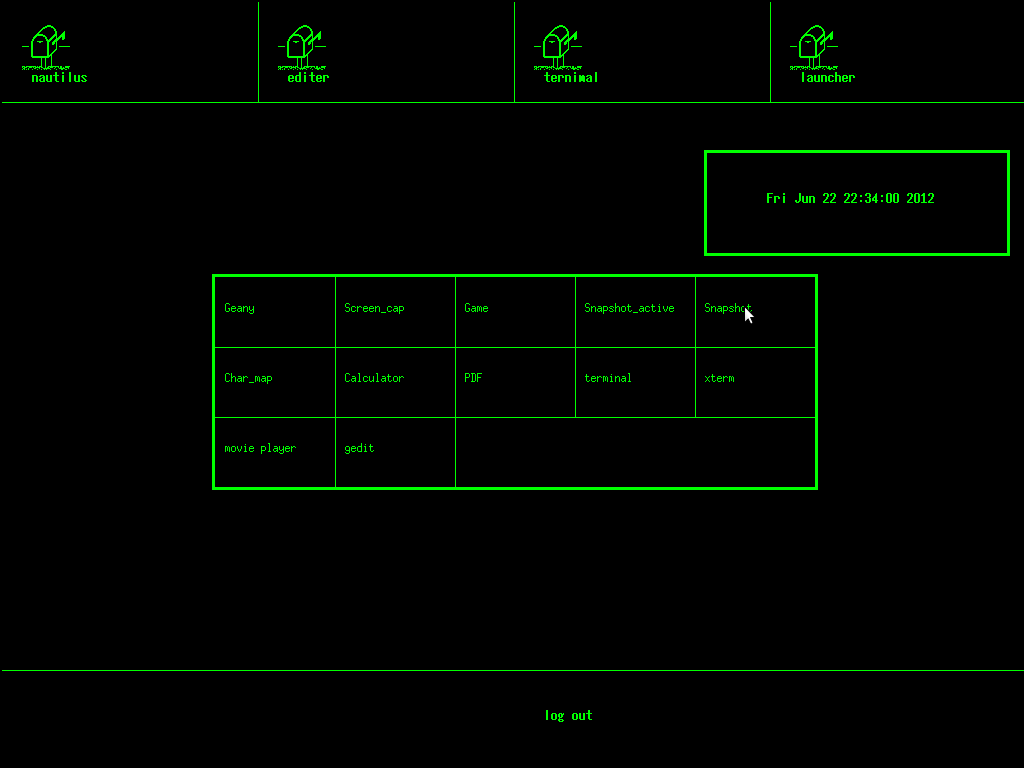
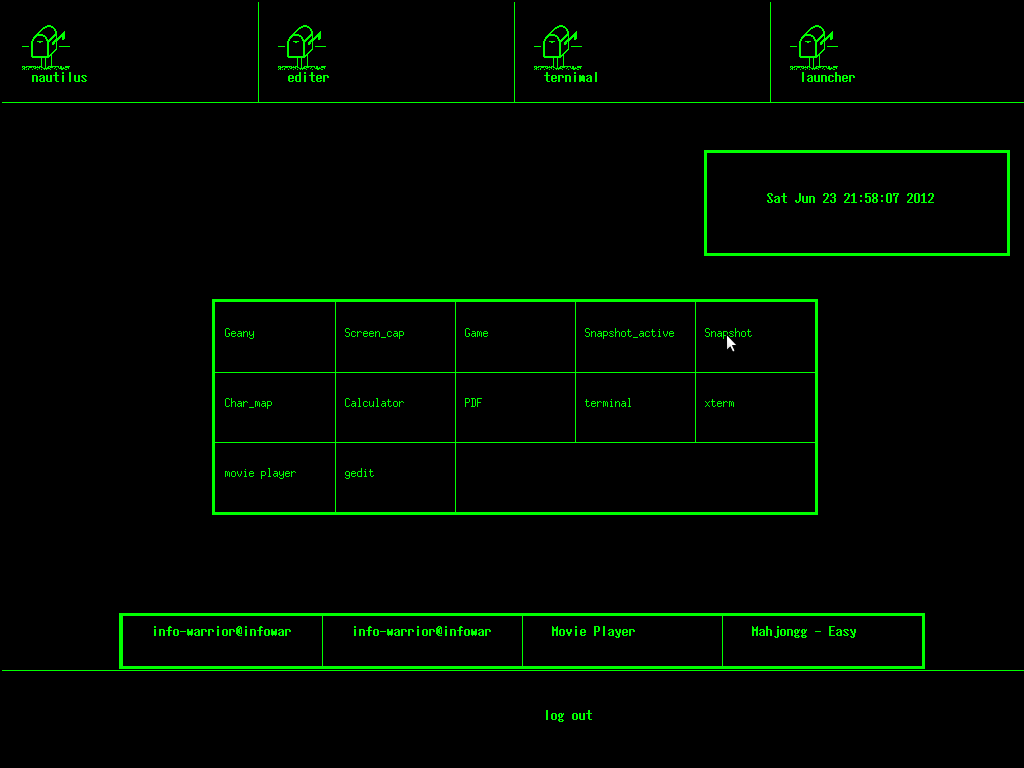
c2_add_window_hiding

diff --git a/wm.c b/wm.c
@@ -4,16 +4,17 @@
 #include <stdlib.h> 
 #include <unistd.h>
 #include <string.h>
+#include <pthread.h>
 
 #define MAX(a, b) ((a) > (b) ? (a) : (b))
 
-Window root, win_xx, win_clock;
+Window root, win_xx, win_clock, win_mini;
 XWindowAttributes w;
 GC g;
 Display * dpy;
 XWindowAttributes attr;
 int simb_num;
-
+int next = 1;
 
 XColor color(char *color){
 	Visual* default_visual = DefaultVisual(dpy, DefaultScreen(dpy));
@@ -40,22 +41,6 @@ Pixmap c_p(Window w, int x, int y){
 	XDrawPoint(dpy, pixmap, gc, 15, 20);
 	return pixmap;
 }
-/*
-void get_up(Window wn, int n){
-	XGetWindowAttributes(dpy, wn, &attr);
-	XWindowChanges win;
-	//win.x = 1;
-	//win.y = 1;
-	//win.width = attr.width;
-	//win.height = attr.height;
-	//win.border_width = 10;
-	//win.sibling = None;
-	win.stack_mode = n;
-	XConfigureWindow(dpy, wn
-		, CWStackMode, &win);
-	XFlush(dpy);
-}*/
-
 Window* get_all_windows(){
 	Window w1, w2;
 	Window *w_arr;
@@ -76,7 +61,7 @@ Window find(char *name){
 			return w_arr[i];
 		}
 	}
-	return (int)NULL; 
+	return 0; 
 } 
 void set_borders(){
 	Window* w_arr = get_all_windows();
@@ -113,6 +98,7 @@ int main(void)
 	start.subwindow = None;
 	char pid[10];
 	sprintf(pid, "%d",getpid());
+	
 	if(!fork()){
 		execlp("xx", "xx", pid, NULL);
 		exit(0);
@@ -122,7 +108,10 @@ int main(void)
 		execlp("clock", "clock", NULL);
 		exit(0);
 	}
-	
+	if(!fork()){
+		execlp("mini", "mini", NULL);
+		exit(0);
+	}
 	if(!fork()){
 		execlp("xterm", "xterm", NULL);
 		exit(0);
@@ -130,23 +119,22 @@ int main(void)
 	sleep(2);
 	win_xx = find("xx");
 	win_clock = find("clock");
-	//if(win_xx != NULL) printf("aaa");
+	win_mini = find("mini");
+	if(win_mini != 0 && win_xx != 0 && win_clock != 0) printf("aaa");
 	XSetErrorHandler(handler);
 	set_borders();
+	sleep(1);
     for(;;){
 		XNextEvent(dpy, &ev);
           if(ev.type == MapNotify){
 			set_borders();
 		}else if(ev.type == ButtonPress && ev.xbutton.subwindow != None){
-			if(ev.xbutton.subwindow != win_xx && ev.xbutton.subwindow != win_clock){
-				//get_up(ev.xbutton.subwindow, Above);
+			printf("xxxx\n");
+			if(ev.xbutton.subwindow != win_xx && ev.xbutton.subwindow != win_clock ){
 				XRaiseWindow(dpy, ev.xbutton.subwindow);
-				//XCirculateSubwindowsUp(dpy, ev.xbutton.subwindow);
 			}
 			XGetWindowAttributes(dpy, ev.xbutton.subwindow, &attr);
-			if(ev.xbutton.button == 2  ){
-				//if(ev.xbutton.x_root > attr.x + attr.width - 50 && 
-					//ev.xbutton.x_root < attr.x + attr.width){
+			if(ev.xbutton.button == 2 && ev.xbutton.subwindow != win_mini){
 					XEvent ev2;
 		 
 					memset(&ev2, 0, sizeof (ev2));
@@ -156,13 +144,28 @@ int main(void)
 					ev2.xclient.message_type = XInternAtom(dpy
 						, "WM_PROTOCOLS", True);
 					ev2.xclient.format = 32;
-					ev2.xclient.data.l[0] = XInternAtom(dpy
+					char *name = '\0';
+					XFetchName(dpy, ev.xbutton.subwindow, &name);
+					printf("xxxx\n");
+					if(ev.xbutton.x_root > attr.x + attr.width /2  && 
+						ev.xbutton.x_root < attr.x + attr.width){
+
+						ev2.xclient.data.l[0] = XInternAtom(dpy
+							, "WM_DELETE_WINDOW", False);
+						ev2.xclient.data.l[1] = CurrentTime;
+						ev2.xclient.data.l[2] = (long int)ev.xbutton.subwindow;
+						XSendEvent(dpy, ev.xbutton.subwindow, False
+							, NoEventMask, &ev2);
+					}else if(ev.xbutton.x_root < attr.x + attr.width / 2  && 
+						ev.xbutton.x_root > attr.x && strcmp(name, "lon") != 0){
+
+						ev2.xclient.data.l[0] = XInternAtom(dpy
 						, "WM_DELETE_WINDOW", False);
-					ev2.xclient.data.l[1] = CurrentTime;
-					XSendEvent(dpy, ev.xbutton.subwindow, False
-						, NoEventMask, &ev2);
-					printf("aaa\n");
-				//}
+						ev2.xclient.data.l[1] = CurrentTime;
+						ev2.xclient.data.l[2] = (long int)ev.xbutton.subwindow;
+						XSendEvent(dpy, win_mini, False
+						 , NoEventMask, &ev2);
+					}
 			}
 			start = ev.xbutton;
 		}else if(ev.type == MotionNotify && start.subwindow != None){
@@ -174,16 +177,20 @@ int main(void)
 				int xdiff = 0;
 				if(strcmp(name, "lon") != 0) 
 					xdiff = ev.xbutton.x_root - start.x_root;
-				int ydiff = ev.xbutton.y_root - start.y_root;
+				int ydiff = 0;
+				if(ev.xbutton.subwindow != win_mini)
+					ydiff = ev.xbutton.y_root - start.y_root;
 
 			    	XMoveResizeWindow(dpy, start.subwindow,
 			    	attr.x + xdiff,
 			    	attr.y + ydiff,
 			    	attr.width,
 			    	attr.height);
+				
 			}
 			if(ev.xbutton.subwindow != win_xx && ev.xbutton.subwindow != win_clock
-				&& strcmp(name, "lon") != 0 && start.button == 3){
+				&& strcmp(name, "lon") != 0 && start.button == 3 
+				&& ev.xbutton.subwindow != win_mini){
 				int xdiff = ev.xbutton.x_root - start.x_root;
 			     int ydiff = ev.xbutton.y_root - start.y_root;
 

diff --git a/mini.c b/mini.c
@@ -1,0 +1,183 @@
+
+#include <X11/Xlib.h>
+#include <stdio.h>
+#include <stdlib.h> 
+#include <unistd.h>
+#include <string.h>
+#include <pthread.h>
+
+Window win;
+XWindowAttributes w;
+GC g;
+Display * dpy;
+Atom hide;
+int count = 0;
+
+typedef struct window{
+	Window w;
+	struct window *next;
+} window;
+window *list = NULL;
+window *st = NULL;
+
+int handler(Display *d, XErrorEvent *ev){
+	int i = 5;
+	//printf("Error\n");
+	return i;
+}
+int check(Window w){
+	window *p = st;
+	while(p != NULL){
+		if(p -> w == w) return 1;
+		p = p -> next;	
+	}
+	return 0;
+}
+int add(Window w){
+	if(check(w)) return 0;
+	count++;
+	window *tmp = malloc(sizeof(window));
+	tmp -> w = w;
+	tmp -> next = NULL;	
+	if(st == NULL){
+		st = list = tmp;
+	}else{
+		list -> next = tmp;
+		list = list -> next;	
+	}
+	return 1;	
+}
+Window get_window(int n){
+	window *p = st;
+	int i;
+	if(count == 0) return NULL;
+	if(count == 1){
+		Window w = st -> w;
+		st = list = NULL;
+		return w;	
+	}
+	for(i = 0; i < n - 1; i++){  
+		p = p -> next;	
+	}
+	Window w = (p -> next) -> w;
+	p -> next = p -> next -> next;
+	if(p -> next  == NULL) list = p; 
+	return w;
+}
+XColor color(char *color){
+	Visual* default_visual = DefaultVisual(dpy, DefaultScreen(dpy));
+	Colormap screen_colormap = XCreateColormap(dpy, DefaultRootWindow(dpy),
+                                   default_visual,  AllocNone);
+	XColor system_color;
+	XColor exact_color;
+	Status rc = XAllocNamedColor(dpy, screen_colormap, color, &system_color,
+							&exact_color);
+	if (rc == 0) fprintf(stderr, "XAllocNamedColor - allocation of 'red' color failed.\n");
+	return system_color;
+}
+void repaint(Window win, XFontStruct *font, GC gc){
+
+	if(count <= 1)XClearArea(dpy, win, 0, 0, 200, 50, False);	
+	else XClearArea(dpy, win, 0, 0, (count - 1)*200, 50, False);
+	window *p = st;
+	if(count <= 1) XResizeWindow(dpy, win, 200, 50);
+	else XResizeWindow(dpy, win, count*200, 50);
+
+	int j = 0;
+	while(p != NULL){
+		Window w = p -> w;
+		
+		char *name = '\0';
+		XFetchName(dpy, w, &name); 
+		if(name == NULL) name = "untitled";
+		if(strlen(name) > 20) name[20] = '\0';
+		printf("%s\n", name);
+		XDrawLine(dpy, win, gc, 200*j, 0, 200*j, 50);
+
+		XTextItem item;
+		item.delta = 10;
+		item.font = font -> fid; 
+		item.chars = name;
+		item.nchars = strlen(name);
+		XDrawText(dpy, win, gc, 200*j + 20,  20, &item, 1);
+		p = p -> next;
+		j++;
+	}
+}
+int main(){
+	dpy = XOpenDisplay(NULL);
+	if (dpy == NULL) {
+		fputs("Cannot open display", stderr);
+		exit(1);
+	}
+	XEvent ev;
+	int scr = XDefaultScreen(dpy);
+	int display_width = DisplayWidth(dpy, scr);
+	int display_height = DisplayHeight(dpy, scr);
+	XColor col = color("green");
+
+	Window win = XCreateSimpleWindow(dpy,
+		XRootWindow(dpy, scr),
+		display_width / 2  - 100 , display_height - 155, 200, 50, 3,
+		col.pixel, XBlackPixel(dpy, scr));
+	XStoreName(dpy, win, "mini");
+	XSelectInput(dpy, win, ExposureMask | KeyPressMask | ButtonPressMask | 					SubstructureNotifyMask);
+	
+	hide = XInternAtom(dpy, "WM_DELETE_WINDOW", True);
+	XSetWMProtocols(dpy, win, &hide, 1);
+	XMapWindow(dpy, win);
+	GC gc = XDefaultGC(dpy, scr);
+	XSetForeground(dpy, gc, col.pixel);
+	int co;
+	char **fn = XListFonts(dpy, "-misc-fixed-bold-r-normal--14-130-75-75-c-70-iso106*", 1,
+						&co);
+	
+	XFontStruct *font = XLoadQueryFont(dpy, fn[0]);
+	char *msg1 = "-----";
+	XTextItem item;
+	item.delta = 10;
+	item.font = font -> fid; 
+	item.chars = msg1;
+	item.nchars = strlen(msg1);
+	XDrawText(dpy, win, gc, 20,  20, &item, 1);
+	XSetErrorHandler(handler);
+	while (1){
+		XNextEvent(dpy, &ev);
+		switch (ev.type)
+		{
+			case Expose:
+			{
+				if(count > 0) repaint(win, font, gc);
+			}
+			break;
+			case ClientMessage:
+			if (ev.xclient.data.l[0] == hide){
+				if(ev.xclient.data.l[2] != NULL && ev.xclient.data.l[2] != 0){
+					Window n = (Window)ev.xclient.data.l[2];
+					if(add(n)){
+						repaint(win, font, gc);
+						XMoveWindow(dpy, n, 1500, 100);
+						XRaiseWindow(dpy, n);
+					}	
+				}	
+			}
+			break;
+			case ButtonPress:
+			{
+				if(count > 0){
+					XWindowAttributes attr;
+					XGetWindowAttributes(dpy, win, &attr);
+					int x = ev.xbutton.x_root - attr.x;
+					int index =  x / 200;
+					if(index < count && index > -1){
+						Window w = get_window(index);
+						XMoveWindow(dpy, w, 100, 100);
+						count--;
+						repaint(win, font, gc);
+					}
+				}
+			}
+			break;
+		}
+	}
+}
